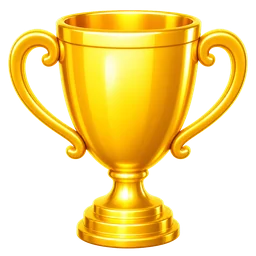
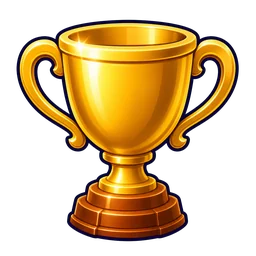
juego: trofeo con tinta + iconos de formato (encargo 30) · build 2026-08-01 e0d18c5

diff --git a/play-cktxj8m6/index.html b/play-cktxj8m6/index.html
@@ -1,6 +1,6 @@
 <meta charset="utf-8">
 <meta name="robots" content="noindex, nofollow">
-<meta name="bt-build" content="2026-08-01 317129f"><!--+AG doc 34 Fase B: sin esto el navegador adivina el encoding y los emojis/flechas salen como mojibake (a-¶ PLAY) -->
+<meta name="bt-build" content="2026-08-01 e0d18c5"><!--+AG doc 34 Fase B: sin esto el navegador adivina el encoding y los emojis/flechas salen como mojibake (a-¶ PLAY) -->
 <meta name="viewport" content="width=device-width, initial-scale=1, maximum-scale=1, user-scalable=no">
 <title>BallTrials · El juego</title>
 <!--
@@ -1028,6 +1028,10 @@
   .sfmt .tri{ width:.72em; height:.72em; display:block; flex:0 0 auto; }
   .sfmt .tri path{ fill:#fff; stroke:#143d22; stroke-width:8; stroke-linejoin:round; paint-order:stroke fill; }
   .sfmt.sec .tri path{ stroke:#2b3047; fill:#e8ecf7; }
+  /*+AG encargo 30: el icono de formato (una bola / dos bolas). Va algo mas grande que un .cico porque
+     comparte linea con una letra de 19 px y tiene que pesar lo mismo que ella. */
+  .fmtico{ width:24px; height:24px; object-fit:contain; flex:0 0 auto; filter:drop-shadow(0 2px 3px #0007); }
+  .sfmt.sec .fmtico{ width:21px; height:21px; }
   /*+AG el secundario lleva el trazo en su propio tono (gris azulado) para no arrastrar el verde del primario */
   .sfmt.sec{ -webkit-text-stroke-color:#2b3047; text-shadow:0 2px 0 #2b304755; }
   .sfmt:active{ transform:translateY(4px); box-shadow:0 2px 0 #157c34; }
@@ -1544,7 +1548,7 @@
        codigo que la web (arte/ambient.mjs). No es arte nuevo: es el motor. -->
   <canvas id="ambient"></canvas>
   <div class="cupsband">
-    <div class="cups" id="hCupsBand" title="Ranking"><img class="cico big" src="arte/ui/moneda-copa.webp" alt=""><b id="hCups">0</b><small data-t="cupsTotal">Total</small></div>
+    <div class="cups" id="hCupsBand" title="Ranking"><img class="cico big" src="arte/ui/moneda-copa.webp?v=2" alt=""><b id="hCups">0</b><small data-t="cupsTotal">Total</small></div>
   </div>
   <div class="stage">
     <!--+AG VB Jaime 2026-07-27: TIENDA y GARAJE se van de este riel. Estaban DUPLICADOS con la barra de
@@ -1556,7 +1560,7 @@
       <div class="ricon" id="rlNoticias"><img class="rico" src="arte/ui/ui-news.webp" alt=""><span class="rl" data-t="rNoticias">Noticias</span></div>
     </div>
     <div class="siderail right">
-      <div class="ricon" id="rrRanking"><img class="rico" src="arte/ui/moneda-copa.webp" alt=""><span class="rl" data-t="rRanking">Ranking</span></div>
+      <div class="ricon" id="rrRanking"><img class="rico" src="arte/ui/moneda-copa.webp?v=2" alt=""><span class="rl" data-t="rRanking">Ranking</span></div>
       <div class="ricon lock" id="rrAmigos"><img class="rico" src="arte/ui/ui-friends.webp" alt=""><span class="rl" data-t="rAmigos">Amigos</span><img class="lk" src="arte/ui/ui-candado.webp" alt=""></div>
       <div class="ricon lock" id="rrClub"><img class="rico" src="arte/ui/ui-club.webp" alt=""><span class="rl" data-t="rClub">Club</span><img class="lk" src="arte/ui/ui-candado.webp" alt=""></div>
     </div>
@@ -1679,7 +1683,7 @@
 <div id="ranking" class="scr">
   <div class="rk-top">
     <button class="g-back" id="rkBack"><span class="ch">‹</span> <span data-t="home">Inicio</span></button>
-    <div class="g-title"><img class="cico" src="arte/ui/moneda-copa.webp" alt=""> <span data-t="rRanking">Ranking</span></div>
+    <div class="g-title"><img class="cico" src="arte/ui/moneda-copa.webp?v=2" alt=""> <span data-t="rRanking">Ranking</span></div>
   </div>
   <div class="rktabs">
     <button class="rktab on" data-rktab="global" data-t="rkGlobal">Global</button>
@@ -1723,11 +1727,10 @@
     <!--+AG 1-ago (docs/56): el ▶ pasa a SVG, el mismo de #hPlay. Era el MISMO simbolo dibujado de dos
          maneras a un toque de distancia (glifo aqui, SVG en la portada), y un glifo depende de que la
          fuente lo traiga.
-         ⚠ DEUDA ABIERTA: los 👤/👥 siguen siendo emoji del sistema — se dibujan distinto en cada movil y
-         rompen el acabado del boton. Estan pedidos como arte propio en arte/codex/30 (icono-solo /
-         icono-equipo); en cuanto lleguen, estos dos <span> pasan a <img class="cico sm">. -->
-    <button class="sfmt ready" id="sSolo"><svg class="tri" viewBox="0 0 64 64" aria-hidden="true"><path d="M14 8 L56 32 L14 56 Z"/></svg> <span data-t="playSolo">JUGAR INDIVIDUAL</span> <span>👤</span></button>
-    <button class="sfmt sec" id="sTeam"><svg class="tri" viewBox="0 0 64 64" aria-hidden="true"><path d="M14 8 L56 32 L14 56 Z"/></svg> <span data-t="playTeam">JUGAR POR EQUIPOS</span> <span>👥</span><span class="soontag" id="sTeamSoon" data-t="soonTag" style="display:none">pronto</span></button>
+         +AG 1-ago: los 👤/👥 (emoji del sistema) YA son arte propio — encargo 30, `icono-solo` y
+         `icono-equipo`: una bola y dos bolas, sin cara, que es lo unico que se lee a 15-19 px. -->
+    <button class="sfmt ready" id="sSolo"><svg class="tri" viewBox="0 0 64 64" aria-hidden="true"><path d="M14 8 L56 32 L14 56 Z"/></svg> <span data-t="playSolo">JUGAR INDIVIDUAL</span> <img class="fmtico" src="arte/ui/icono-solo.webp" alt=""></button>
+    <button class="sfmt sec" id="sTeam"><svg class="tri" viewBox="0 0 64 64" aria-hidden="true"><path d="M14 8 L56 32 L14 56 Z"/></svg> <span data-t="playTeam">JUGAR POR EQUIPOS</span> <img class="fmtico" src="arte/ui/icono-equipo.webp" alt=""><span class="soontag" id="sTeamSoon" data-t="soonTag" style="display:none">pronto</span></button>
   </div>
 </div>
 <!-- ===== HOJA DE IDIOMA (VB Jaime 2026-07-27: "se ve feo") =====================================
@@ -1823,7 +1826,7 @@
     <div class="r-sub" id="rSub"></div>
   </div>
   <!--+AG COPAS de LA BOLA jugada (doc 37): son botín igual que las Chispas, solo que se pueden perder -->
-  <div class="r-cups" id="rCups"><div class="ic"><img class="cico" src="arte/ui/moneda-copa.webp" alt=""></div><div><div class="cn" id="rCupsName">Cohete</div><div class="cw" id="rCupsWhy">Copas</div></div><div class="cv" id="rCupsVal">0<span class="cd" id="rCupsDelta"></span></div></div>
+  <div class="r-cups" id="rCups"><div class="ic"><img class="cico" src="arte/ui/moneda-copa.webp?v=2" alt=""></div><div><div class="cn" id="rCupsName">Cohete</div><div class="cw" id="rCupsWhy">Copas</div></div><div class="cv" id="rCupsVal">0<span class="cd" id="rCupsDelta"></span></div></div>
   <div class="r-rewards">
     <div class="r-reward" id="rRewChispa"><div class="ic chispa"><img class="cico" src="arte/ui/moneda-chispa.webp?v=2" alt=""></div><div><div class="lbl2" data-t="chispasWord">Chispas</div><div class="lbl2" id="rChispaWhy" style="text-transform:none;color:#8fe0a8;margin-top:2px"></div></div><div class="val" id="rChispaVal">+0</div></div>
     <div class="r-reward" id="rRewXp"><div class="ic xp">⭐</div><div style="flex:1"><div class="lbl2"><span data-t="lvl">Nivel</span> <span id="rLvlNum">1</span></div><div class="r-xpbar"><div class="r-xpfill" id="rXpFill"></div></div></div></div>
@@ -2178,7 +2181,7 @@
 
 <!--+AG doc 41 bloque C: iconos de modo canonicos (SVG plano dorado del canal). Script CLASICO y
      antes del principal a proposito: se ejecuta en orden y la constante existe ya en el primer render. -->
-<script src="i18n/idiomas.js?v=317129f"></script><!--+AG doc 49: catalogo de los 20 idiomas + cargador de paquetes. Clasico y ANTES del script principal: LANGS/ord/nfmt se construyen con el. -->
+<script src="i18n/idiomas.js?v=e0d18c5"></script><!--+AG doc 49: catalogo de los 20 idiomas + cargador de paquetes. Clasico y ANTES del script principal: LANGS/ord/nfmt se construyen con el. -->
 <script src="arte/modeicons-vendored.js"></script>
 <script src="arte/bolas-canon.js"></script><!--+AG el color canonico de las 12 bolas, fuente unica (lo lee tambien integrar-bolas.py). Tiene que ir ANTES del script principal: ARCH_COLOR se construye con el. -->
 <script>
@@ -3087,9 +3090,6 @@ const MORE={
     traits:{volcan:'su boost dura un 20% más',yunque:'los choques de otras bolas le empujan la mitad (el súper sí la arrolla)',fantasma:'el Cazador tarda un 15% más en fijarla',estrella:'su súper dura +1 segundo'},
     traitWhere:{volcan:'en los tres modos',yunque:'en los tres modos',fantasma:'solo en Cazador',estrella:'en los tres modos'},
     hitoBtn:n=>'Hito: '+n+' 🏆 totales', hitoProg:(h,n)=>'Se gana jugando: llevas '+h+' de '+n+' 🏆 totales',
-    //+AG 1-ago: mueren fichasBtn/fichasSoon (la moneda que nunca existió). La Legendaria se compra
-    //   con Gemas y esta es su pista: dice lo único que la distingue de las demás compras.
-    gdMoneyGem:'La Legendaria solo se compra con Gemas: no se consigue jugando.',
     tHito:n=>'¡Hito de copas alcanzado! '+n+' se une a tu Garaje 🎉',
     gdMoney:'Se gana jugando o se compra con Gemas: tú eliges si pagas con tiempo o con prisa.',
     unlockBtn:p=>'Desbloquear · '+p+' ✦', orPay:g=>'o pagar '+g+' ◆',
@@ -3250,7 +3250,6 @@ const MORE={
     traits:{volcan:'its boost lasts 20% longer',yunque:'other balls shove it half as much (a super still bowls it over)',fantasma:'the Hunter takes 15% longer to lock on',estrella:'its super lasts +1 second'},
     traitWhere:{volcan:'all three modes',yunque:'all three modes',fantasma:'Hunter only',estrella:'all three modes'},
     hitoBtn:n=>'Milestone: '+n+' 🏆 total', hitoProg:(h,n)=>'Earned by playing: you have '+h+' of '+n+' 🏆 total',
-    gdMoneyGem:'The Legendary is Gems only: you cannot get it by playing.',
     tHito:n=>'Cup milestone reached! '+n+' joins your Garage 🎉',
     gdMoney:'Earn it by playing or buy it with Gems: you choose whether to pay with time or in a hurry.',
     unlockBtn:p=>'Unlock · '+p+' ✦', orPay:g=>'or pay '+g+' ◆',
@@ -3391,7 +3390,13 @@ const nfmt=n=>Number(n||0).toLocaleString(BTI18N.nloc(LANG));
 //   eran CARACTERES tipograficos, y la copa era un emoji distinto en cada movil. Las cuatro se
 //   distinguen por SILUETA en escala de grises (estrella / diamante / hexagono / copa): eso resuelve
 //   daltonismo sin depender del color, que es como lo pide docs/17.
-const uiArt=n=>`arte/ui/${n}.webp`;
+//+AG ⚠ EL `?v=` NO ES DECORACION: sin el, la CDN sirve la imagen VIEJA durante 7 dias y tu arte nuevo
+//   no llega al jugador aunque el fichero este bien en el servidor (medido el 1-ago con las monedas:
+//   `curl` devolvia los bytes nuevos y el navegador seguia pintando los viejos). La nota larga esta
+//   encima de `.cico` en el CSS. Al SUSTITUIR una imagen ya desplegada, sube este numero.
+//   v2 = 1-ago-2026: monedas de oro y gema (encargo 29) + trofeo con tinta (encargo 30).
+const ART_V='2';
+const uiArt=n=>`arte/ui/${n}.webp?v=${ART_V}`;
 const coinIco=(n,cls)=>`<img class="cico${cls?' '+cls:''}" src="${uiArt('moneda-'+n)}" alt="">`;
 //+AG 1-ago (encargo 31): los OBJETOS DE LOGRO — puesto 1º/2º/3º, corona del ganador y "hay premio"—
 //   eran emoji del sistema. En Windows las medallas salen con cinta AZUL, un color que no existe en la
@@ -4206,9 +4211,12 @@ const ATTRS=['VEL','ACE','PES','AGA','RES','BST'];
 const QUAL=[{n:'Común',c:'#9aa4b8'},{n:'Poco común',c:'#4bd06a'},{n:'Rara',c:'#3b86ff'},{n:'Épica',c:'#a855f7'},{n:'Legendaria',c:'#fbb915'}];
 const QMAX=[9,10,11,12,13];   // techo de NIVEL por rareza (doc 39: "una verde no sube tanto")
 //+AG doc 39: roster de 12. q = rareza FIJA (identidad, ya no se sube). Cada nivel: +1 al atributo FIRMA y +1
-//   alternando entre los dos SEC (sin reparto manual de puntos). Cómo se consigue: price=✦ (Común→Rara, también
-//   con ◆), hito=copas TOTALES (Épicas, no comprables), fichas=⬡ (Legendaria, pronto). Los 7 nombres nuevos ya
-//   existían en BALL_NAMES como bolas decorativas de bots (continuidad, cero lore nuevo). Datos = bolas-balltrials.html.
+//   alternando entre los dos SEC (sin reparto manual de puntos). Los 7 nombres nuevos ya existían en
+//   BALL_NAMES como bolas decorativas de bots (continuidad, cero lore nuevo). Datos = bolas-balltrials.html.
+//+AG 1-ago: CÓMO SE CONSIGUE cada bola ya NO se lee aquí — lo manda la regla única de abajo (Monedas o
+//   Gemas para las doce, `hito` solo como regalo en paralelo). Esta cabecera describía el modelo viejo
+//   («price=✦, hito=copas no comprables, fichas=⬡ Legendaria pronto») y las dos últimas piezas ya no
+//   existen: la moneda ⬡ nunca llegó a existir de verdad y las Épicas dejaron de ser solo-de-hito.
 const ARCHS={
   cohete:  {name:'Cohete',  q:0, base:[8,7,3,4,4,5],  firma:0, sec:[1,5], gratis:true},   // la de bienvenida
   tanque:  {name:'Tanque',  q:0, base:[3,3,9,6,7,5],  firma:2, sec:[4,3]},

diff --git a/play-cktxj8m6/motor/redlight/index.html b/play-cktxj8m6/motor/redlight/index.html
@@ -3,7 +3,7 @@
 <head>
 <meta charset="utf-8" />
 <meta name="robots" content="noindex, nofollow">
-<meta name="bt-build" content="2026-08-01 317129f">
+<meta name="bt-build" content="2026-08-01 e0d18c5">
 <meta name="viewport" content="width=device-width, initial-scale=1" />
 <!--+AG el HTML se sirve en INGLES (defecto del juego); ?lang=es lo traduce por JS (applyLang) -->
 <title>YouBall · Red Light Rush (WebGL) · The Marble Games</title>
@@ -199,7 +199,7 @@ if(new URLSearchParams(location.search).get('drive')==='1'){
 
 <!--+AG ICONO DE MODO para el cartel de arranque: script CLÁSICO (se ejecuta antes del módulo) igual que en
      juego.html, así window.VENDORED_MODE_ICONS ya existe cuando chassis/arranque.mjs construye el cartel. -->
-<script src="../../i18n/idiomas.js?v=317129f"></script><!--+AG doc 49: catalogo y cargador de los 20 idiomas, compartido con el shell. Clasico y antes del modulo. -->
+<script src="../../i18n/idiomas.js?v=e0d18c5"></script><!--+AG doc 49: catalogo y cargador de los 20 idiomas, compartido con el shell. Clasico y antes del modulo. -->
 <script src="../../arte/modeicons-vendored.js"></script>
 
 <script type="importmap">

diff --git a/play-cktxj8m6/motor/cazador/index.html b/play-cktxj8m6/motor/cazador/index.html
@@ -3,7 +3,7 @@
 <head>
 <meta charset="utf-8" />
 <meta name="robots" content="noindex, nofollow">
-<meta name="bt-build" content="2026-08-01 317129f">
+<meta name="bt-build" content="2026-08-01 e0d18c5">
 <meta name="viewport" content="width=device-width, initial-scale=1" />
 <!--+AG el HTML se sirve en INGLES (defecto del juego); ?lang=es lo traduce por JS (applyLang) -->
 <title>YouBall · The Hunter (WebGL)</title>
@@ -150,7 +150,7 @@ if(new URLSearchParams(location.search).get('drive')==='1'){
 
 <!--+AG ICONO DE MODO para el cartel de arranque: script CLÁSICO (se ejecuta antes del módulo) igual que en
      juego.html, así window.VENDORED_MODE_ICONS ya existe cuando chassis/arranque.mjs construye el cartel. -->
-<script src="../../i18n/idiomas.js?v=317129f"></script><!--+AG doc 49: catalogo y cargador de los 20 idiomas, compartido con el shell. Clasico y antes del modulo. -->
+<script src="../../i18n/idiomas.js?v=e0d18c5"></script><!--+AG doc 49: catalogo y cargador de los 20 idiomas, compartido con el shell. Clasico y antes del modulo. -->
 <script src="../../arte/modeicons-vendored.js"></script>
 
 <script type="importmap">

diff --git a/play-cktxj8m6/motor/race/index.html b/play-cktxj8m6/motor/race/index.html
@@ -4,7 +4,7 @@
 <head>
 <meta charset="utf-8" />
 <meta name="robots" content="noindex, nofollow">
-<meta name="bt-build" content="2026-08-01 317129f">
+<meta name="bt-build" content="2026-08-01 e0d18c5">
 <meta name="viewport" content="width=device-width, initial-scale=1" />
 <title>YouBall · La Gran Carrera (WebGL)</title>
 <style>
@@ -178,7 +178,7 @@ if(new URLSearchParams(location.search).get('drive')==='1'){
 
 <!--+AG ICONO DE MODO para el cartel de arranque: script CLÁSICO (se ejecuta antes del módulo) igual que en
      juego.html, así window.VENDORED_MODE_ICONS ya existe cuando chassis/arranque.mjs construye el cartel. -->
-<script src="../../i18n/idiomas.js?v=317129f"></script><!--+AG doc 49: catalogo y cargador de los 20 idiomas, compartido con el shell. Clasico y antes del modulo. -->
+<script src="../../i18n/idiomas.js?v=e0d18c5"></script><!--+AG doc 49: catalogo y cargador de los 20 idiomas, compartido con el shell. Clasico y antes del modulo. -->
 <script src="../../arte/modeicons-vendored.js"></script>
 
 <script type="importmap">
